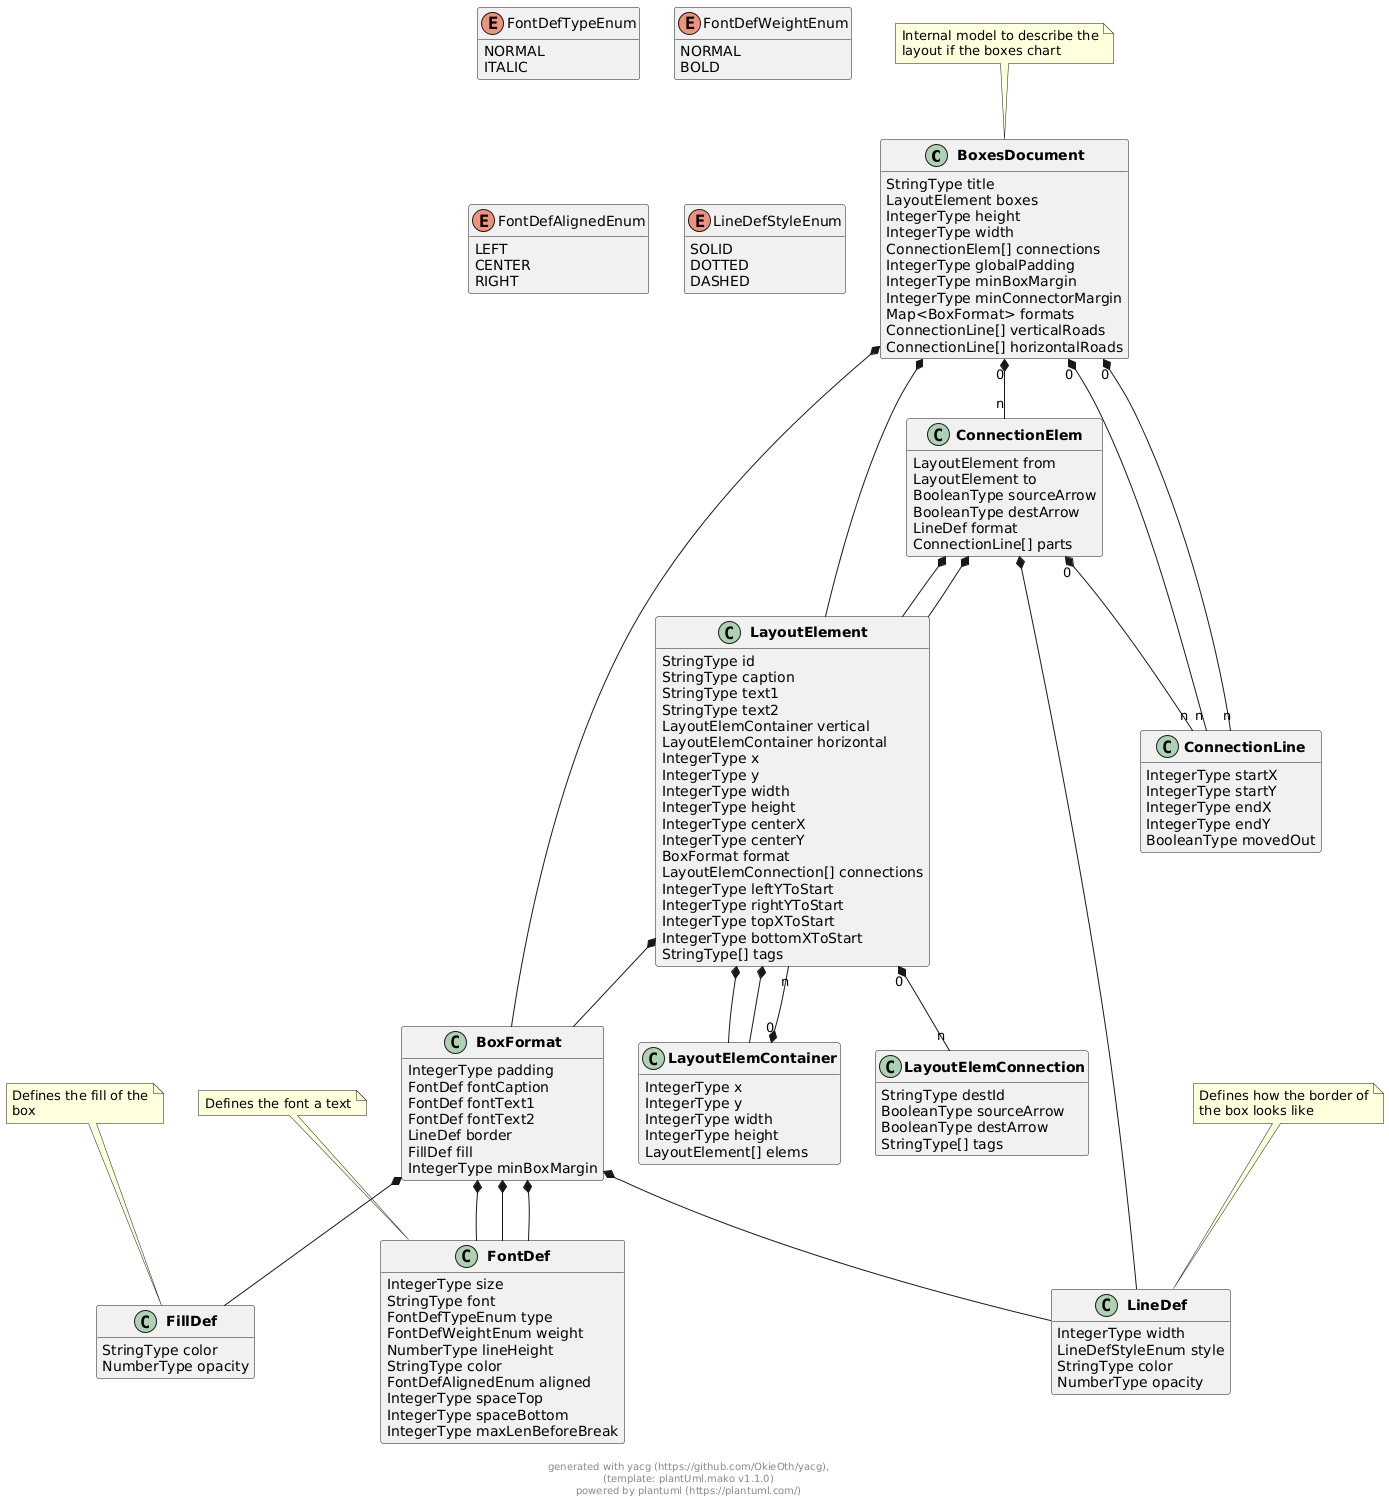
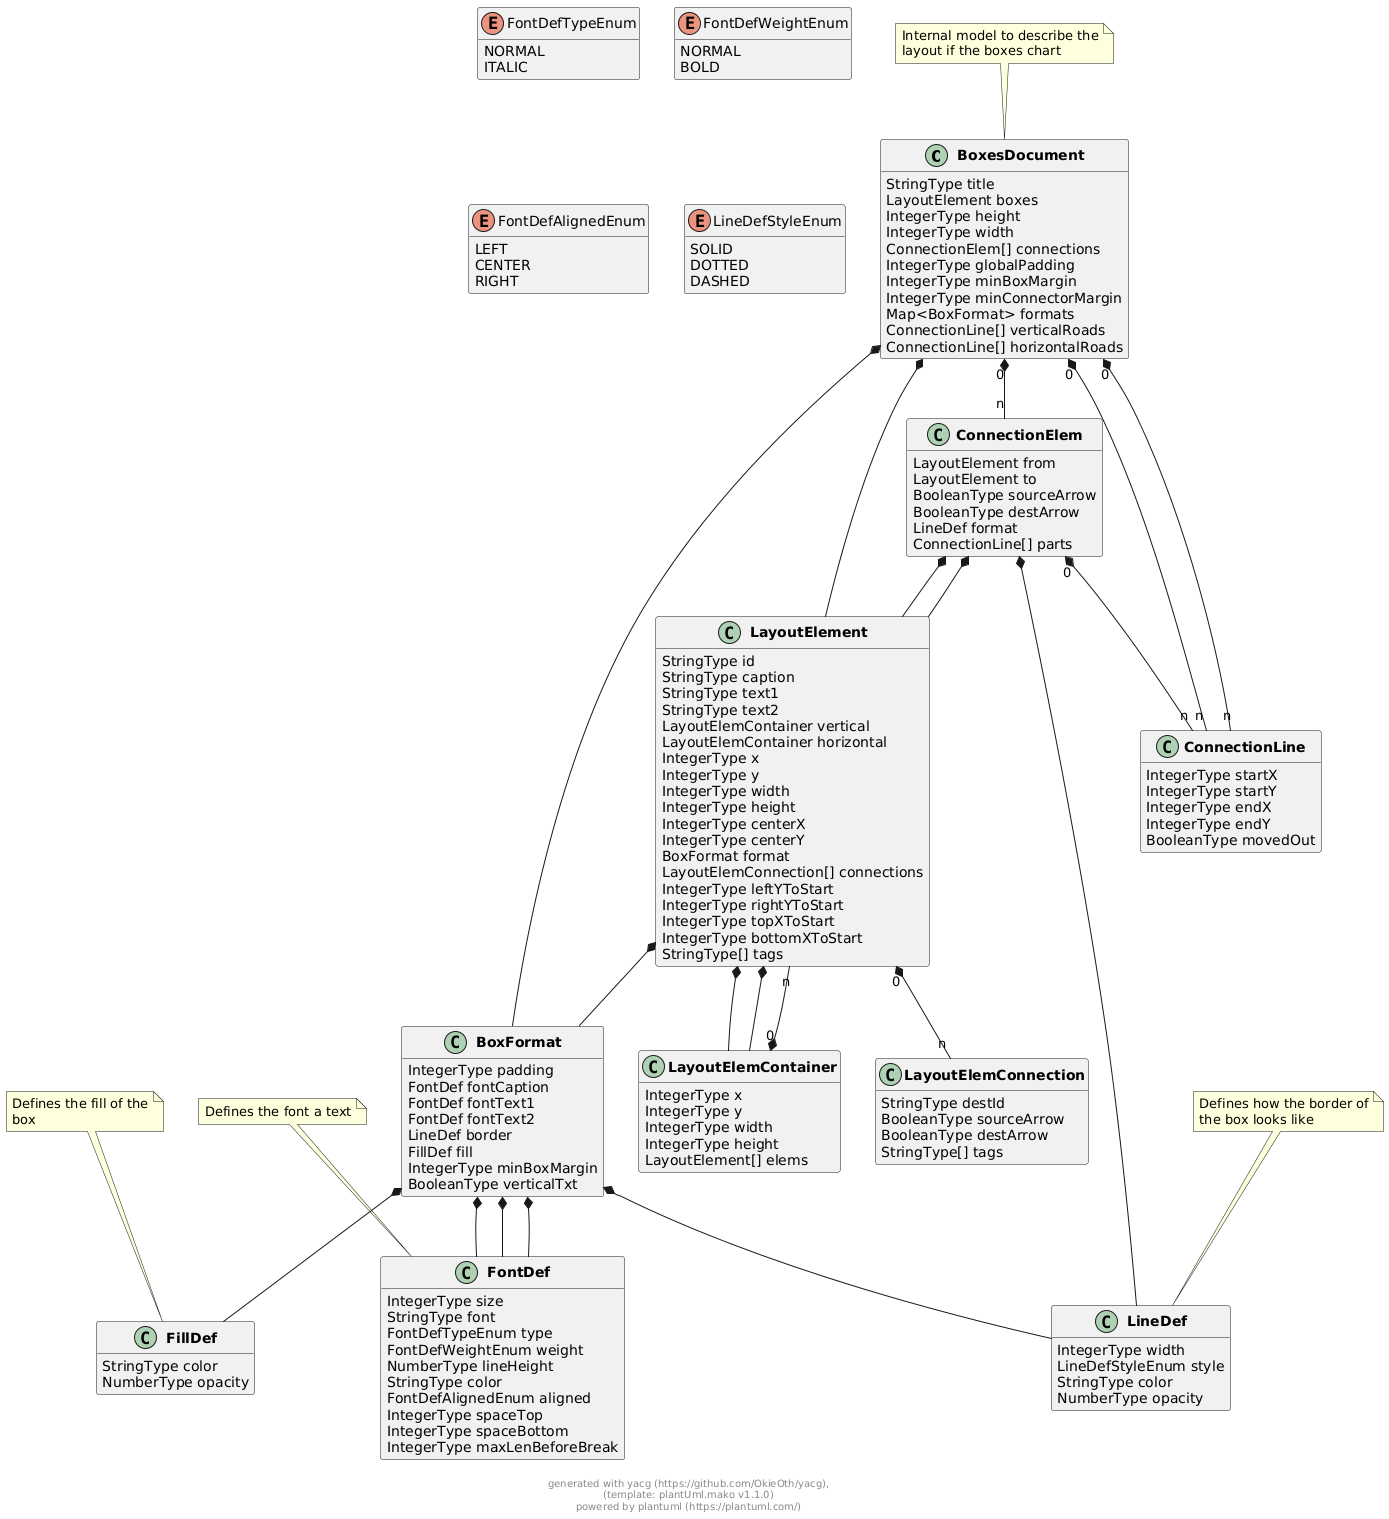
wip: vertical text

diff --git a/pkg/types/layout.go b/pkg/types/layout.go
@@ -842,9 +842,19 @@ func (l *LayoutElement) InitDimensions(c TextDimensionCalculator, defaultPadding
 				p = l.Format.FontCaption.SpaceTop
 			}
 			cW, cH = c.Dimensions(l.Caption, &l.Format.FontCaption)
-			l.Height += cH + p + l.Format.FontCaption.SpaceBottom
-			if l.Text1 == "" && l.Text2 == "" {
-				l.Height += l.Format.Padding
+			if !l.Format.VerticalTxt {
+				// normal horizontal text
+				l.Height += cH + p + l.Format.FontCaption.SpaceBottom
+				if l.Text1 == "" && l.Text2 == "" {
+					l.Height += l.Format.Padding
+				}
+			} else {
+				// vertical text
+				cW, cH = cH, cW
+				l.Width += cW + p + l.Format.FontCaption.SpaceBottom
+				if l.Text1 == "" && l.Text2 == "" {
+					l.Width += l.Format.Padding
+				}
 			}
 		}
 		if l.Text1 != "" {
@@ -853,9 +863,17 @@ func (l *LayoutElement) InitDimensions(c TextDimensionCalculator, defaultPadding
 				p = l.Format.FontText1.SpaceTop
 			}
 			t1W, t1H = c.Dimensions(l.Text1, &l.Format.FontText1)
-			l.Height += t1H + p + l.Format.FontText1.SpaceBottom
-			if l.Text2 == "" {
-				l.Height += l.Format.Padding
+			if !l.Format.VerticalTxt {
+				l.Height += t1H + p + l.Format.FontText1.SpaceBottom
+				if l.Text2 == "" {
+					l.Height += l.Format.Padding
+				}
+			} else {
+				t1W, t1H = t1H, t1W
+				l.Width += t1W + p + l.Format.FontText1.SpaceBottom
+				if l.Text2 == "" {
+					l.Width += l.Format.Padding
+				}
 			}
 		}
 		if l.Text2 != "" {
@@ -864,13 +882,28 @@ func (l *LayoutElement) InitDimensions(c TextDimensionCalculator, defaultPadding
 				p = l.Format.FontText2.SpaceTop
 			}
 			t2W, t2H = c.Dimensions(l.Text2, &l.Format.FontText2)
-			l.Height += t2H + p + l.Format.FontText2.SpaceBottom
-			l.Height += l.Format.Padding
+			if !l.Format.VerticalTxt {
+				l.Height += t2H + p + l.Format.FontText2.SpaceBottom
+				l.Height += l.Format.Padding
+			} else {
+				t2W, t2H = t2H, t2W
+				l.Width += t2W + p + l.Format.FontText2.SpaceBottom
+				l.Width += l.Format.Padding
+			}
 		}
-		l.Height = l.adjustToRaster(l.Height)
-		yInnerOffset = l.Height
-		l.Width = l.adjustToRaster(max(cW, max(t1W, t2W)) + (2 * l.Format.Padding))
+		if !l.Format.VerticalTxt {
+			// normal horizontal text
+			l.Height = l.adjustToRaster(l.Height)
+			yInnerOffset = l.Height
+			l.Width = l.adjustToRaster(max(cW, max(t1W, t2W)) + (2 * l.Format.Padding))
+		} else {
+			// vertical text
+			l.Width = l.adjustToRaster(l.Width)
+			yInnerOffset = l.Width
+			l.Height = l.adjustToRaster(max(cH, max(t1H, t2H)) + (2 * l.Format.Padding))
+		}
 	}
+
 	l.initVertical(c, yInnerOffset, defaultPadding, defaultBoxMargin)
 	l.initHorizontal(c, yInnerOffset, defaultPadding, defaultBoxMargin)
 }

diff --git a/pkg/svgdrawing/svgdrawing.go b/pkg/svgdrawing/svgdrawing.go
@@ -290,6 +290,34 @@ func (d *Drawing) drawText(text string, currentY, x, width int, fontDef *types.F
 	return currentY
 }
 
+// drawText renders text with appropriate positioning and returns the updated X-position
+func (d *Drawing) drawVerticalText(text string, y, currentX, height int, fontDef *types.FontDef) int {
+	if text == "" {
+		return currentX
+	}
+
+	if fontDef.SpaceTop != 0 {
+		currentX += fontDef.SpaceTop
+	}
+
+	txtFormat := d.textFormat(fontDef)
+	_, _, lines := d.txtDimensionCalculator.SplitTxt(text, fontDef)
+
+	for _, l := range lines {
+		yTxt := y + fontDef.Size
+		xTxt := currentX
+		// fmt.Sprintf("%s;transform=\"rotate(-90, %d, %d)\"", txtFormat, xTxt, yTxt)
+		d.canvas.TextRotated(xTxt, yTxt, l.Text, -90, txtFormat)
+		currentX += l.Height
+	}
+
+	if fontDef.SpaceBottom != 0 {
+		currentX += fontDef.SpaceBottom
+	}
+
+	return currentX
+}
+
 // Draw renders a box with text elements
 func (d *Drawing) Draw(id, caption, text1, text2 string, x, y, width, height int, format types.BoxFormat) error {
 	if format.Fill != nil || format.Border != nil {
@@ -323,11 +351,18 @@ func (d *Drawing) Draw(id, caption, text1, text2 string, x, y, width, height int
 		d.canvas.RectWithId(id, x, y, width, height, attr)
 	}
 
-	currentY := y + format.Padding
-	currentY = d.drawText(caption, currentY, x, width, &format.FontCaption)
-	currentY = d.drawText(text1, currentY, x, width, &format.FontText1)
-	currentY = d.drawText(text2, currentY, x, width, &format.FontText2)
-
+	if format.VerticalTxt {
+		currentX := x + format.Padding
+		currentY := y + (height / 2)
+		currentX = d.drawVerticalText(caption, currentY, currentX, width, &format.FontCaption)
+		currentX = d.drawVerticalText(text1, currentY, currentX, width, &format.FontText1)
+		currentX = d.drawVerticalText(text2, currentY, currentX, width, &format.FontText2)
+	} else {
+		currentY := y + format.Padding
+		currentY = d.drawText(caption, currentY, x, width, &format.FontCaption)
+		currentY = d.drawText(text1, currentY, x, width, &format.FontText1)
+		currentY = d.drawText(text2, currentY, x, width, &format.FontText2)
+	}
 	return nil
 }
 

diff --git a/pkg/svgdrawing/svgdrawing_test.go b/pkg/svgdrawing/svgdrawing_test.go
@@ -69,6 +69,10 @@ func TestSimpleSvg(t *testing.T) {
 			inputFile:  "../../resources/examples/horizontal_nested_diamond2.yaml",
 			outputFile: "../../temp/TestSimpleSvg_hdiamond_nestedx2.svg",
 		},
+		{
+			inputFile:  "../../resources/examples/long_horizontal_vertical.yaml",
+			outputFile: "../../temp/long_horizontal_vertical.svg",
+		},
 	}
 
 	textDimensionCalulator := svgdrawing.NewSvgTextDimensionCalculator()
@@ -81,8 +85,9 @@ func TestSimpleSvg(t *testing.T) {
 		output, err := os.Create(test.outputFile)
 		require.Nil(t, err)
 		svgdrawing := svgdrawing.NewDrawing(output)
-		doc.DrawBoxes(svgdrawing)
+		svgdrawing.Start(doc.Title, doc.Height, doc.Width)
 		svgdrawing.DrawRaster(doc.Width, doc.Height, types.RasterSize)
+		doc.DrawBoxes(svgdrawing)
 		svgdrawing.Done()
 		output.Close()
 		_, err = os.Stat(test.outputFile)
@@ -110,6 +115,7 @@ func TestSvgWithConnections(t *testing.T) {
 			output, err := os.Create(test.outputFile)
 			require.Nil(t, err)
 			svgdrawing := svgdrawing.NewDrawing(output)
+			svgdrawing.Start(doc.Title, doc.Height, doc.Width)
 			doc.DrawBoxes(svgdrawing)
 			doc.DrawRoads(svgdrawing)
 			doc.DrawConnections(svgdrawing)

diff --git a/pkg/types/boxesdocfactory.go b/pkg/types/boxesdocfactory.go
@@ -130,6 +130,7 @@ func initBoxFormat(f *Format) BoxFormat {
 	var fontCaption *FontDef
 	var fontText1 *FontDef
 	var fontText2 *FontDef
+	var verticalTxt bool
 	padding := GlobalPadding
 	boxMargin := GlobalMinBoxMargin
 	if f != nil {
@@ -144,6 +145,9 @@ func initBoxFormat(f *Format) BoxFormat {
 		if f.BoxMargin != nil {
 			boxMargin = *f.BoxMargin
 		}
+		if f.VerticalTxt != nil {
+			verticalTxt = *f.VerticalTxt
+		}
 	}
 
 	return BoxFormat{
@@ -154,6 +158,7 @@ func initBoxFormat(f *Format) BoxFormat {
 		FontText2:    InitFontDef(fontText2, "monospace", 8, false, true, 10),
 		Border:       border,
 		Fill:         fill,
+		VerticalTxt:  verticalTxt,
 	}
 }
 

diff --git a/pkg/svg/svg.go b/pkg/svg/svg.go
@@ -426,6 +426,12 @@ func (svg *SVG) Text(x int, y int, t string, s ...string) {
 	svg.println(`</text>`)
 }
 
+func (svg *SVG) TextRotated(x int, y int, t string, rotation int, s ...string) {
+	svg.printf(`<text %s transform="rotate(%d, %d, %d)"  %s`, loc(x, y), rotation, x, y, endstyle(s, ">"))
+	xml.Escape(svg.Writer, []byte(t))
+	svg.println(`</text>`)
+}
+
 // Textspan begins text, assuming a tspan will be included, end with TextEnd()
 // Standard Reference: https://www.w3.org/TR/SVG11/text.html#TSpanElement
 func (svg *SVG) Textspan(x int, y int, t string, s ...string) {

diff --git a/pkg/types/boxes.go b/pkg/types/boxes.go
@@ -87,6 +87,9 @@ func NewLayout() *Layout {
 
 type Format struct {
 
+    // If true, the text will be displayed vertically
+    VerticalTxt *bool  `yaml:"verticalTxt,omitempty"`
+
     FontCaption *FontDef  `yaml:"fontCaption,omitempty"`
 
     FontText1 *FontDef  `yaml:"fontText1,omitempty"`

diff --git a/pkg/types/boxesdoc.go b/pkg/types/boxesdoc.go
@@ -178,6 +178,9 @@ type BoxFormat struct {
 
     // Minimum margin between boxes
     MinBoxMargin int  `yaml:"minBoxMargin"`
+
+    // If true, the text will be displayed vertically
+    VerticalTxt bool  `yaml:"verticalTxt"`
 }
 
 
